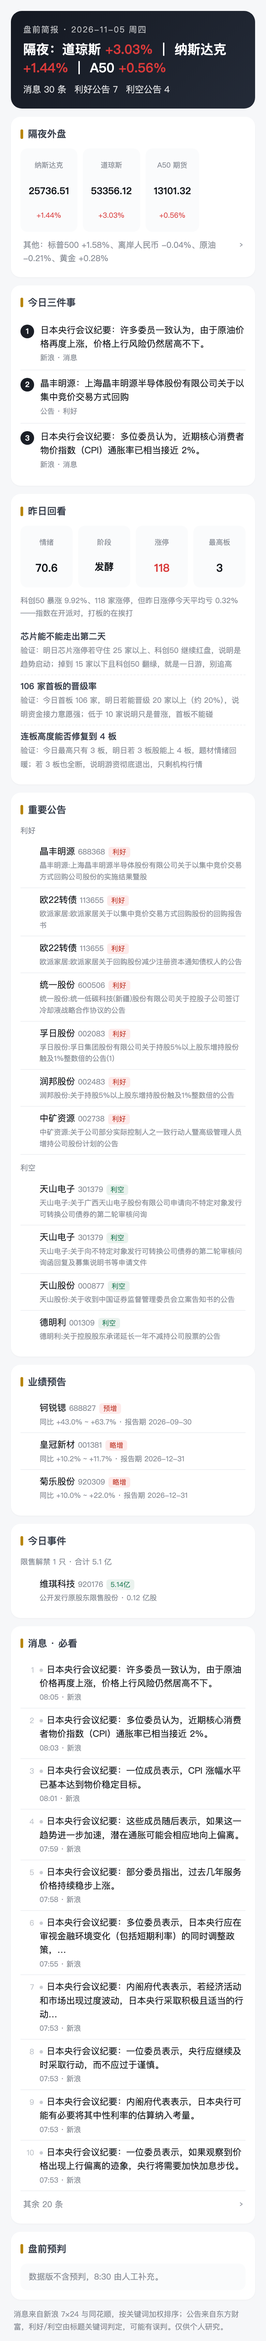
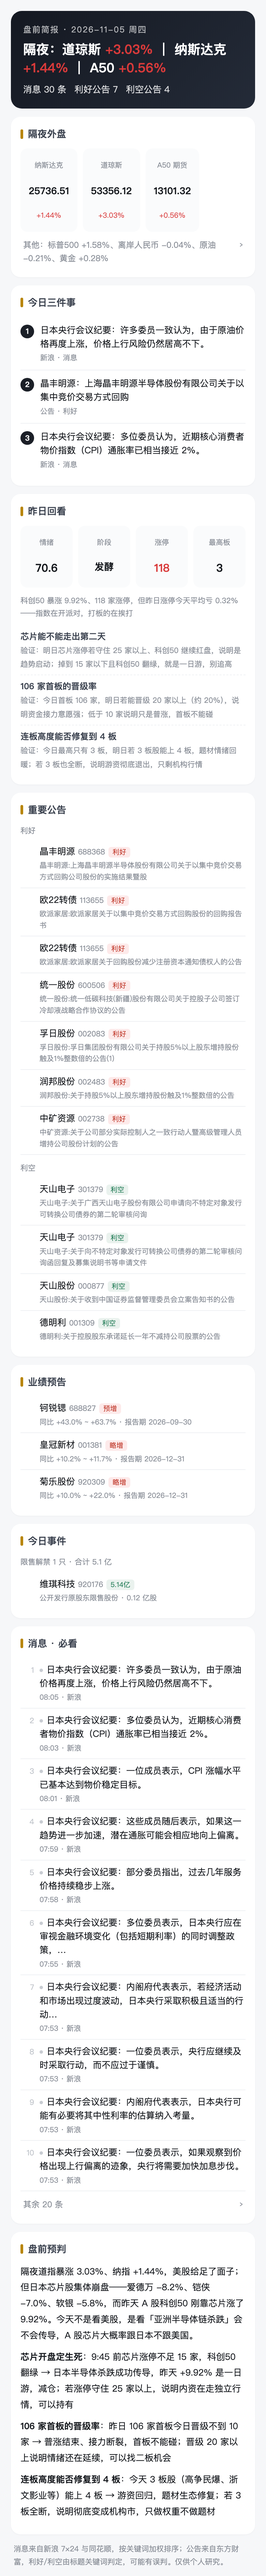
report: 2026-11-04

Changed region(s): [[0.0615, 0.0, 0.9538, 0.9985], [0.7385, 0.6553, 0.7692, 0.6865]]

diff --git a/pre/2026-11-05/2026-11-05-盘前.html b/pre/2026-11-05/2026-11-05-盘前.html
@@ -50,4 +50,4 @@ details.more[open]>summary .arw{transform:rotate(90deg)}
 display:flex;align-items:center;justify-content:center;font-weight:700;margin-top:2px}
 .t3 .t{font-size:13px;line-height:1.55;flex:1}
 .t3 .s{font-size:10.5px;color:#8a8f98;margin-top:2px}
-</style><link rel="manifest" href="/a-share-review/manifest.webmanifest"><meta name="theme-color" content="#1b1f27"><meta name="apple-mobile-web-app-capable" content="yes"><meta name="apple-mobile-web-app-status-bar-style" content="black-translucent"><meta name="apple-mobile-web-app-title" content="A股复盘"><link rel="apple-touch-icon" href="/a-share-review/icon-192.png"></head><body><div class="wrap"><div class="hero"><div class="d">盘前简报 · 2026-11-05 周四</div><h1>隔夜：道琼斯 <b class="up">+3.03%</b> ｜ 纳斯达克 <b class="up">+1.44%</b> ｜ A50 <b class="up">+0.56%</b></h1><div class="sum"><span>消息 30 条</span><span>利好公告 7</span><span>利空公告 4</span></div></div><div class="card"><h2>隔夜外盘</h2><div class="ov"><div><div class="n">纳斯达克</div><div class="v">25736.51</div><div class="p up">+1.44%</div></div><div><div class="n">道琼斯</div><div class="v">53356.12</div><div class="p up">+3.03%</div></div><div><div class="n">A50 期货</div><div class="v">13101.32</div><div class="p up">+0.56%</div></div></div><details class="more"><summary><span>其他：标普500 +1.58%、离岸人民币 -0.04%、原油 -0.21%、黄金 +0.28%</span><span class="arw">›</span></summary><div class="ov" style="margin-top:8px"><div><div class="n">标普500</div><div class="v">7688.62</div><div class="p up">+1.58%</div></div><div><div class="n">离岸人民币</div><div class="v">6.67</div><div class="p down">-0.04%</div></div><div><div class="n">原油</div><div class="v">87.94</div><div class="p down">-0.21%</div></div><div><div class="n">黄金</div><div class="v">4084.52</div><div class="p up">+0.28%</div></div></div></details></div><div class="card"><h2>今日三件事</h2><div class="t3"><div class="n">1</div><div><div class="t">日本央行会议纪要：许多委员一致认为，由于原油价格再度上涨，价格上行风险仍然居高不下。</div><div class="s">新浪 · 消息</div></div></div><div class="t3"><div class="n">2</div><div><div class="t">晶丰明源：上海晶丰明源半导体股份有限公司关于以集中竞价交易方式回购</div><div class="s">公告 · 利好</div></div></div><div class="t3"><div class="n">3</div><div><div class="t">日本央行会议纪要：多位委员认为，近期核心消费者物价指数（CPI）通胀率已相当接近 2%。</div><div class="s">新浪 · 消息</div></div></div></div><div class="card"><h2>昨日回看</h2><div class="kv"><div><div class="n">情绪</div><div class="v">70.6</div></div><div><div class="n">阶段</div><div class="v" style="font-size:14px">发酵</div></div><div><div class="n">涨停</div><div class="v up">118</div></div><div><div class="n">最高板</div><div class="v">3</div></div></div><div class="note" style="margin-bottom:8px">科创50 暴涨 9.92%、118 家涨停，但昨日涨停今天平均亏 0.32%——指数在开派对，打板的在挨打</div><div class="watch"><b>芯片能不能走出第二天</b><br><span class="note">验证：明日芯片涨停若守住 25 家以上、科创50 继续红盘，说明是趋势启动；掉到 15 家以下且科创50 翻绿，就是一日游，别追高</span></div><div class="watch"><b>106 家首板的晋级率</b><br><span class="note">验证：今日首板 106 家，明日若能晋级 20 家以上（约 20%），说明资金接力意愿强；低于 10 家说明只是普涨，首板不能碰</span></div><div class="watch"><b>连板高度能否修复到 4 板</b><br><span class="note">验证：今日最高只有 3 板，明日若 3 板股能上 4 板，题材情绪回暖；若 3 板也全断，说明游资彻底退出，只剩机构行情</span></div></div><div class="card"><h2>重要公告</h2><div class="note" style="margin-bottom:4px">利好</div><div class="item"><div class="no"></div><div class="b"><div class="t">晶丰明源 <span class="mut" style="font-size:11px">688368</span><span class="tag tag-good">利好</span></div><div class="m">晶丰明源:上海晶丰明源半导体股份有限公司关于以集中竞价交易方式回购公司股份的实施结果暨股</div></div></div><div class="item"><div class="no"></div><div class="b"><div class="t">欧22转债 <span class="mut" style="font-size:11px">113655</span><span class="tag tag-good">利好</span></div><div class="m">欧派家居:欧派家居关于以集中竞价交易方式回购股份的回购报告书</div></div></div><div class="item"><div class="no"></div><div class="b"><div class="t">欧22转债 <span class="mut" style="font-size:11px">113655</span><span class="tag tag-good">利好</span></div><div class="m">欧派家居:欧派家居关于回购股份减少注册资本通知债权人的公告</div></div></div><div class="item"><div class="no"></div><div class="b"><div class="t">统一股份 <span class="mut" style="font-size:11px">600506</span><span class="tag tag-good">利好</span></div><div class="m">统一股份:统一低碳科技(新疆)股份有限公司关于控股子公司签订冷却液战略合作协议的公告</div></div></div><div class="item"><div class="no"></div><div class="b"><div class="t">孚日股份 <span class="mut" style="font-size:11px">002083</span><span class="tag tag-good">利好</span></div><div class="m">孚日股份:孚日集团股份有限公司关于持股5%以上股东增持股份触及1%整数倍的公告(1)</div></div></div><div class="item"><div class="no"></div><div class="b"><div class="t">润邦股份 <span class="mut" style="font-size:11px">002483</span><span class="tag tag-good">利好</span></div><div class="m">润邦股份:关于持股5%以上股东增持股份触及1%整数倍的公告</div></div></div><div class="item"><div class="no"></div><div class="b"><div class="t">中矿资源 <span class="mut" style="font-size:11px">002738</span><span class="tag tag-good">利好</span></div><div class="m">中矿资源:关于公司部分实际控制人之一致行动人暨高级管理人员增持公司股份计划的公告</div></div></div><div class="note" style="margin:10px 0 4px">利空</div><div class="item"><div class="no"></div><div class="b"><div class="t">天山电子 <span class="mut" style="font-size:11px">301379</span><span class="tag tag-bad">利空</span></div><div class="m">天山电子:关于广西天山电子股份有限公司申请向不特定对象发行可转换公司债券的第二轮审核问询</div></div></div><div class="item"><div class="no"></div><div class="b"><div class="t">天山电子 <span class="mut" style="font-size:11px">301379</span><span class="tag tag-bad">利空</span></div><div class="m">天山电子:关于向不特定对象发行可转换公司债券的第二轮审核问询函回复及募集说明书等申请文件</div></div></div><div class="item"><div class="no"></div><div class="b"><div class="t">天山股份 <span class="mut" style="font-size:11px">000877</span><span class="tag tag-bad">利空</span></div><div class="m">天山股份:关于收到中国证券监督管理委员会立案告知书的公告</div></div></div><div class="item"><div class="no"></div><div class="b"><div class="t">德明利 <span class="mut" style="font-size:11px">001309</span><span class="tag tag-bad">利空</span></div><div class="m">德明利:关于控股股东承诺延长一年不减持公司股票的公告</div></div></div></div><div class="card"><h2>业绩预告</h2><div class="item"><div class="no"></div><div class="b"><div class="t">钶锐锶 <span class="mut" style="font-size:11px">688827</span><span class="tag tag-good">预增</span></div><div class="m">同比 +43.0% ~ +63.7% · 报告期 2026-09-30</div></div></div><div class="item"><div class="no"></div><div class="b"><div class="t">皇冠新材 <span class="mut" style="font-size:11px">001381</span><span class="tag tag-good">略增</span></div><div class="m">同比 +10.2% ~ +11.7% · 报告期 2026-12-31</div></div></div><div class="item"><div class="no"></div><div class="b"><div class="t">菊乐股份 <span class="mut" style="font-size:11px">920309</span><span class="tag tag-good">略增</span></div><div class="m">同比 +10.0% ~ +22.0% · 报告期 2026-12-31</div></div></div></div><div class="card"><h2>今日事件</h2><div class="note" style="margin-bottom:6px">限售解禁 1 只 · 合计 5.1 亿</div><div class="item"><div class="no"></div><div class="b"><div class="t">维琪科技 <span class="mut" style="font-size:11px">920176</span><span class="tag tag-bad">5.14亿</span></div><div class="m">公开发行原股东限售股份 · 0.12 亿股</div></div></div></div><div class="card"><h2>消息 · 必看</h2><div class="item"><div class="no">1</div><div class="b"><div class="t"><span class="dot n"></span>日本央行会议纪要：许多委员一致认为，由于原油价格再度上涨，价格上行风险仍然居高不下。</div><div class="m">08:05 · 新浪</div></div></div><div class="item"><div class="no">2</div><div class="b"><div class="t"><span class="dot n"></span>日本央行会议纪要：多位委员认为，近期核心消费者物价指数（CPI）通胀率已相当接近 2%。</div><div class="m">08:03 · 新浪</div></div></div><div class="item"><div class="no">3</div><div class="b"><div class="t"><span class="dot n"></span>日本央行会议纪要：一位成员表示，CPI 涨幅水平已基本达到物价稳定目标。</div><div class="m">08:01 · 新浪</div></div></div><div class="item"><div class="no">4</div><div class="b"><div class="t"><span class="dot n"></span>日本央行会议纪要：这些成员随后表示，如果这一趋势进一步加速，潜在通胀可能会相应地向上偏离。</div><div class="m">07:59 · 新浪</div></div></div><div class="item"><div class="no">5</div><div class="b"><div class="t"><span class="dot n"></span>日本央行会议纪要：部分委员指出，过去几年服务价格持续稳步上涨。</div><div class="m">07:58 · 新浪</div></div></div><div class="item"><div class="no">6</div><div class="b"><div class="t"><span class="dot n"></span>日本央行会议纪要：多位委员表示，日本央行应在审视金融环境变化（包括短期利率）的同时调整政策，…</div><div class="m">07:55 · 新浪</div></div></div><div class="item"><div class="no">7</div><div class="b"><div class="t"><span class="dot n"></span>日本央行会议纪要：内阁府代表表示，若经济活动和市场出现过度波动，日本央行采取积极且适当的行动…</div><div class="m">07:53 · 新浪</div></div></div><div class="item"><div class="no">8</div><div class="b"><div class="t"><span class="dot n"></span>日本央行会议纪要：一位委员表示，央行应继续及时采取行动，而不应过于谨慎。</div><div class="m">07:53 · 新浪</div></div></div><div class="item"><div class="no">9</div><div class="b"><div class="t"><span class="dot n"></span>日本央行会议纪要：内阁府代表表示，日本央行可能有必要将其中性利率的估算纳入考量。</div><div class="m">07:53 · 新浪</div></div></div><div class="item"><div class="no">10</div><div class="b"><div class="t"><span class="dot n"></span>日本央行会议纪要：一位委员表示，如果观察到价格出现上行偏离的迹象，央行将需要加快加息步伐。</div><div class="m">07:53 · 新浪</div></div></div><details class="more"><summary><span>其余 20 条</span><span class="arw">›</span></summary><div class="item"><div class="no">11</div><div class="b"><div class="t"><span class="dot n"></span>日本央行会议纪要：内阁府代表表示，期待日本央行就本次会议的决策履行问责义务，并仔细审视过去政…</div><div class="m">07:52 · 新浪</div></div></div><div class="item"><div class="no">12</div><div class="b"><div class="t"><span class="dot n"></span>日本央行会议纪要：一位委员表示，重要的是向市场展示日本央行通过灵活应对海外经济环境和价格走势…</div><div class="m">07:52 · 新浪</div></div></div><div class="item"><div class="no">13</div><div class="b"><div class="t"><span class="dot n"></span>日本央行会议纪要：一位委员表示，日本央行宜相对较快地将政策利率接近大致目标，并确保有空间向任…</div><div class="m">07:51 · 新浪</div></div></div><div class="item"><div class="no">14</div><div class="b"><div class="t"><span class="dot n"></span>日本央行9月会议纪要：委员们一致认为，日本央行继续提高政策利率并调整货币宽松程度是合适的。</div><div class="m">07:51 · 新浪</div></div></div><div class="item"><div class="no">15</div><div class="b"><div class="t"><span class="dot n"></span>西班牙请求欧盟铁路局协助调查高铁事故</div><div class="m">01:13 · 同花顺</div></div></div><div class="item"><div class="no">16</div><div class="b"><div class="t"><span class="dot g"></span>【希音将向欧洲业务投资5亿欧元】据报道，快时尚跨境电商希音将向欧洲业务投资5亿欧元（5.63…</div><div class="m">07:59 · 新浪</div></div></div><div class="item"><div class="no">17</div><div class="b"><div class="t"><span class="dot b2"></span>【白酒行业前三季度持续去库存 市场人士：基本面反转尚待旺季验证】近日，19家主流白酒上市公司…</div><div class="m">07:59 · 新浪</div></div></div><div class="item"><div class="no">18</div><div class="b"><div class="t"><span class="dot b2"></span>【玻璃行业持续磨底 盈利分化 企业纷纷谋转型】“金九银十”过后，玻璃行业尚未走出低位磨底阶段…</div><div class="m">07:49 · 新浪</div></div></div><div class="item"><div class="no">19</div><div class="b"><div class="t"><span class="dot g"></span>欧佩克：原油运输及保险成本飙升 加剧全球通胀压力</div><div class="m">00:49 · 同花顺</div></div></div><div class="item"><div class="no">20</div><div class="b"><div class="t"><span class="dot n"></span>美股收评：美股三大指数集体收涨</div><div class="m">05:00 · 同花顺</div></div></div><div class="item"><div class="no">21</div><div class="b"><div class="t"><span class="dot n"></span>苹果计划进一步下调员工的人工智能使用限额，部分工程师的每日AI使用额度已从300美元降至20…</div><div class="m">03:47 · 同花顺</div></div></div><div class="item"><div class="no">22</div><div class="b"><div class="t"><span class="dot g"></span>【品质化、场景化消费升温 多个新兴赛道电商订单增长】中国物流与采购联合会今天发布10月份中国…</div><div class="m">08:18 · 新浪</div></div></div><div class="item"><div class="no">23</div><div class="b"><div class="t"><span class="dot g"></span>【花旗银行一名员工在佛罗里达州办公室枪击案中遇害】花旗集团首席执行官弗雷泽 (Jane Fr…</div><div class="m">08:14 · 新浪</div></div></div><div class="item"><div class="no">24</div><div class="b"><div class="t"><span class="dot g"></span>【美国健身平台FitLab申请破产保护，将破产归咎于失去耐克合作】当地时间11月4日，美国健…</div><div class="m">08:09 · 新浪</div></div></div><div class="item"><div class="no">25</div><div class="b"><div class="t"><span class="dot b2"></span>【中国联合资信评估将珠海华发集团列入负面观察名单】中国联合资信评估公告称，将珠海华发集团及其…</div><div class="m">08:07 · 新浪</div></div></div><div class="item"><div class="no">26</div><div class="b"><div class="t"><span class="dot g"></span>【第29届中国—加拿大经贸联委会举行】11月3日，第29届中国—加拿大经贸联委会在京举行。会…</div><div class="m">07:56 · 新浪</div></div></div><div class="item"><div class="no">27</div><div class="b"><div class="t"><span class="dot g"></span>KAKAO CORP.：将回购价值 1500 亿韩元的自有股份。</div><div class="m">07:55 · 新浪</div></div></div><div class="item"><div class="no">28</div><div class="b"><div class="t"><span class="dot g"></span>德防长：驻立陶宛装甲旅明年底前形成全面作战能力</div><div class="m">06:59 · 同花顺</div></div></div><div class="item"><div class="no">29</div><div class="b"><div class="t"><span class="dot n"></span>日本芯片相关股票大幅下跌，爱德万测试股价下跌8.2%，铠侠下跌7.0%，软银集团下跌5.8%…</div><div class="m">08:20 · 新浪</div></div></div><div class="item"><div class="no">30</div><div class="b"><div class="t"><span class="dot n"></span>【华泰证券：2027年建议把握券商板块战略配置机会】华泰证券研报称，2026年以来受资金配置…</div><div class="m">08:17 · 新浪</div></div></div></details></div><div class="card"><h2>盘前预判</h2><div class="empty">数据版不含预判，8:30 由人工补充。</div></div><div class="note" style="padding:0 4px">消息来自新浪 7×24 与同花顺，按关键词加权排序；公告来自东方财富，利好/利空由标题关键词判定，可能有误判。仅供个人研究。</div></div></body></html>
+</style><link rel="manifest" href="/a-share-review/manifest.webmanifest"><meta name="theme-color" content="#1b1f27"><meta name="apple-mobile-web-app-capable" content="yes"><meta name="apple-mobile-web-app-status-bar-style" content="black-translucent"><meta name="apple-mobile-web-app-title" content="A股复盘"><link rel="apple-touch-icon" href="/a-share-review/icon-192.png"></head><body><div class="wrap"><div class="hero"><div class="d">盘前简报 · 2026-11-05 周四</div><h1>隔夜：道琼斯 <b class="up">+3.03%</b> ｜ 纳斯达克 <b class="up">+1.44%</b> ｜ A50 <b class="up">+0.56%</b></h1><div class="sum"><span>消息 30 条</span><span>利好公告 7</span><span>利空公告 4</span></div></div><div class="card"><h2>隔夜外盘</h2><div class="ov"><div><div class="n">纳斯达克</div><div class="v">25736.51</div><div class="p up">+1.44%</div></div><div><div class="n">道琼斯</div><div class="v">53356.12</div><div class="p up">+3.03%</div></div><div><div class="n">A50 期货</div><div class="v">13101.32</div><div class="p up">+0.56%</div></div></div><details class="more"><summary><span>其他：标普500 +1.58%、离岸人民币 -0.04%、原油 -0.21%、黄金 +0.28%</span><span class="arw">›</span></summary><div class="ov" style="margin-top:8px"><div><div class="n">标普500</div><div class="v">7688.62</div><div class="p up">+1.58%</div></div><div><div class="n">离岸人民币</div><div class="v">6.67</div><div class="p down">-0.04%</div></div><div><div class="n">原油</div><div class="v">87.94</div><div class="p down">-0.21%</div></div><div><div class="n">黄金</div><div class="v">4084.52</div><div class="p up">+0.28%</div></div></div></details></div><div class="card"><h2>今日三件事</h2><div class="t3"><div class="n">1</div><div><div class="t">日本央行会议纪要：许多委员一致认为，由于原油价格再度上涨，价格上行风险仍然居高不下。</div><div class="s">新浪 · 消息</div></div></div><div class="t3"><div class="n">2</div><div><div class="t">晶丰明源：上海晶丰明源半导体股份有限公司关于以集中竞价交易方式回购</div><div class="s">公告 · 利好</div></div></div><div class="t3"><div class="n">3</div><div><div class="t">日本央行会议纪要：多位委员认为，近期核心消费者物价指数（CPI）通胀率已相当接近 2%。</div><div class="s">新浪 · 消息</div></div></div></div><div class="card"><h2>昨日回看</h2><div class="kv"><div><div class="n">情绪</div><div class="v">70.6</div></div><div><div class="n">阶段</div><div class="v" style="font-size:14px">发酵</div></div><div><div class="n">涨停</div><div class="v up">118</div></div><div><div class="n">最高板</div><div class="v">3</div></div></div><div class="note" style="margin-bottom:8px">科创50 暴涨 9.92%、118 家涨停，但昨日涨停今天平均亏 0.32%——指数在开派对，打板的在挨打</div><div class="watch"><b>芯片能不能走出第二天</b><br><span class="note">验证：明日芯片涨停若守住 25 家以上、科创50 继续红盘，说明是趋势启动；掉到 15 家以下且科创50 翻绿，就是一日游，别追高</span></div><div class="watch"><b>106 家首板的晋级率</b><br><span class="note">验证：今日首板 106 家，明日若能晋级 20 家以上（约 20%），说明资金接力意愿强；低于 10 家说明只是普涨，首板不能碰</span></div><div class="watch"><b>连板高度能否修复到 4 板</b><br><span class="note">验证：今日最高只有 3 板，明日若 3 板股能上 4 板，题材情绪回暖；若 3 板也全断，说明游资彻底退出，只剩机构行情</span></div></div><div class="card"><h2>重要公告</h2><div class="note" style="margin-bottom:4px">利好</div><div class="item"><div class="no"></div><div class="b"><div class="t">晶丰明源 <span class="mut" style="font-size:11px">688368</span><span class="tag tag-good">利好</span></div><div class="m">晶丰明源:上海晶丰明源半导体股份有限公司关于以集中竞价交易方式回购公司股份的实施结果暨股</div></div></div><div class="item"><div class="no"></div><div class="b"><div class="t">欧22转债 <span class="mut" style="font-size:11px">113655</span><span class="tag tag-good">利好</span></div><div class="m">欧派家居:欧派家居关于以集中竞价交易方式回购股份的回购报告书</div></div></div><div class="item"><div class="no"></div><div class="b"><div class="t">欧22转债 <span class="mut" style="font-size:11px">113655</span><span class="tag tag-good">利好</span></div><div class="m">欧派家居:欧派家居关于回购股份减少注册资本通知债权人的公告</div></div></div><div class="item"><div class="no"></div><div class="b"><div class="t">统一股份 <span class="mut" style="font-size:11px">600506</span><span class="tag tag-good">利好</span></div><div class="m">统一股份:统一低碳科技(新疆)股份有限公司关于控股子公司签订冷却液战略合作协议的公告</div></div></div><div class="item"><div class="no"></div><div class="b"><div class="t">孚日股份 <span class="mut" style="font-size:11px">002083</span><span class="tag tag-good">利好</span></div><div class="m">孚日股份:孚日集团股份有限公司关于持股5%以上股东增持股份触及1%整数倍的公告(1)</div></div></div><div class="item"><div class="no"></div><div class="b"><div class="t">润邦股份 <span class="mut" style="font-size:11px">002483</span><span class="tag tag-good">利好</span></div><div class="m">润邦股份:关于持股5%以上股东增持股份触及1%整数倍的公告</div></div></div><div class="item"><div class="no"></div><div class="b"><div class="t">中矿资源 <span class="mut" style="font-size:11px">002738</span><span class="tag tag-good">利好</span></div><div class="m">中矿资源:关于公司部分实际控制人之一致行动人暨高级管理人员增持公司股份计划的公告</div></div></div><div class="note" style="margin:10px 0 4px">利空</div><div class="item"><div class="no"></div><div class="b"><div class="t">天山电子 <span class="mut" style="font-size:11px">301379</span><span class="tag tag-bad">利空</span></div><div class="m">天山电子:关于广西天山电子股份有限公司申请向不特定对象发行可转换公司债券的第二轮审核问询</div></div></div><div class="item"><div class="no"></div><div class="b"><div class="t">天山电子 <span class="mut" style="font-size:11px">301379</span><span class="tag tag-bad">利空</span></div><div class="m">天山电子:关于向不特定对象发行可转换公司债券的第二轮审核问询函回复及募集说明书等申请文件</div></div></div><div class="item"><div class="no"></div><div class="b"><div class="t">天山股份 <span class="mut" style="font-size:11px">000877</span><span class="tag tag-bad">利空</span></div><div class="m">天山股份:关于收到中国证券监督管理委员会立案告知书的公告</div></div></div><div class="item"><div class="no"></div><div class="b"><div class="t">德明利 <span class="mut" style="font-size:11px">001309</span><span class="tag tag-bad">利空</span></div><div class="m">德明利:关于控股股东承诺延长一年不减持公司股票的公告</div></div></div></div><div class="card"><h2>业绩预告</h2><div class="item"><div class="no"></div><div class="b"><div class="t">钶锐锶 <span class="mut" style="font-size:11px">688827</span><span class="tag tag-good">预增</span></div><div class="m">同比 +43.0% ~ +63.7% · 报告期 2026-09-30</div></div></div><div class="item"><div class="no"></div><div class="b"><div class="t">皇冠新材 <span class="mut" style="font-size:11px">001381</span><span class="tag tag-good">略增</span></div><div class="m">同比 +10.2% ~ +11.7% · 报告期 2026-12-31</div></div></div><div class="item"><div class="no"></div><div class="b"><div class="t">菊乐股份 <span class="mut" style="font-size:11px">920309</span><span class="tag tag-good">略增</span></div><div class="m">同比 +10.0% ~ +22.0% · 报告期 2026-12-31</div></div></div></div><div class="card"><h2>今日事件</h2><div class="note" style="margin-bottom:6px">限售解禁 1 只 · 合计 5.1 亿</div><div class="item"><div class="no"></div><div class="b"><div class="t">维琪科技 <span class="mut" style="font-size:11px">920176</span><span class="tag tag-bad">5.14亿</span></div><div class="m">公开发行原股东限售股份 · 0.12 亿股</div></div></div></div><div class="card"><h2>消息 · 必看</h2><div class="item"><div class="no">1</div><div class="b"><div class="t"><span class="dot n"></span>日本央行会议纪要：许多委员一致认为，由于原油价格再度上涨，价格上行风险仍然居高不下。</div><div class="m">08:05 · 新浪</div></div></div><div class="item"><div class="no">2</div><div class="b"><div class="t"><span class="dot n"></span>日本央行会议纪要：多位委员认为，近期核心消费者物价指数（CPI）通胀率已相当接近 2%。</div><div class="m">08:03 · 新浪</div></div></div><div class="item"><div class="no">3</div><div class="b"><div class="t"><span class="dot n"></span>日本央行会议纪要：一位成员表示，CPI 涨幅水平已基本达到物价稳定目标。</div><div class="m">08:01 · 新浪</div></div></div><div class="item"><div class="no">4</div><div class="b"><div class="t"><span class="dot n"></span>日本央行会议纪要：这些成员随后表示，如果这一趋势进一步加速，潜在通胀可能会相应地向上偏离。</div><div class="m">07:59 · 新浪</div></div></div><div class="item"><div class="no">5</div><div class="b"><div class="t"><span class="dot n"></span>日本央行会议纪要：部分委员指出，过去几年服务价格持续稳步上涨。</div><div class="m">07:58 · 新浪</div></div></div><div class="item"><div class="no">6</div><div class="b"><div class="t"><span class="dot n"></span>日本央行会议纪要：多位委员表示，日本央行应在审视金融环境变化（包括短期利率）的同时调整政策，…</div><div class="m">07:55 · 新浪</div></div></div><div class="item"><div class="no">7</div><div class="b"><div class="t"><span class="dot n"></span>日本央行会议纪要：内阁府代表表示，若经济活动和市场出现过度波动，日本央行采取积极且适当的行动…</div><div class="m">07:53 · 新浪</div></div></div><div class="item"><div class="no">8</div><div class="b"><div class="t"><span class="dot n"></span>日本央行会议纪要：一位委员表示，央行应继续及时采取行动，而不应过于谨慎。</div><div class="m">07:53 · 新浪</div></div></div><div class="item"><div class="no">9</div><div class="b"><div class="t"><span class="dot n"></span>日本央行会议纪要：内阁府代表表示，日本央行可能有必要将其中性利率的估算纳入考量。</div><div class="m">07:53 · 新浪</div></div></div><div class="item"><div class="no">10</div><div class="b"><div class="t"><span class="dot n"></span>日本央行会议纪要：一位委员表示，如果观察到价格出现上行偏离的迹象，央行将需要加快加息步伐。</div><div class="m">07:53 · 新浪</div></div></div><details class="more"><summary><span>其余 20 条</span><span class="arw">›</span></summary><div class="item"><div class="no">11</div><div class="b"><div class="t"><span class="dot n"></span>日本央行会议纪要：内阁府代表表示，期待日本央行就本次会议的决策履行问责义务，并仔细审视过去政…</div><div class="m">07:52 · 新浪</div></div></div><div class="item"><div class="no">12</div><div class="b"><div class="t"><span class="dot n"></span>日本央行会议纪要：一位委员表示，重要的是向市场展示日本央行通过灵活应对海外经济环境和价格走势…</div><div class="m">07:52 · 新浪</div></div></div><div class="item"><div class="no">13</div><div class="b"><div class="t"><span class="dot n"></span>日本央行会议纪要：一位委员表示，日本央行宜相对较快地将政策利率接近大致目标，并确保有空间向任…</div><div class="m">07:51 · 新浪</div></div></div><div class="item"><div class="no">14</div><div class="b"><div class="t"><span class="dot n"></span>日本央行9月会议纪要：委员们一致认为，日本央行继续提高政策利率并调整货币宽松程度是合适的。</div><div class="m">07:51 · 新浪</div></div></div><div class="item"><div class="no">15</div><div class="b"><div class="t"><span class="dot n"></span>西班牙请求欧盟铁路局协助调查高铁事故</div><div class="m">01:13 · 同花顺</div></div></div><div class="item"><div class="no">16</div><div class="b"><div class="t"><span class="dot g"></span>【希音将向欧洲业务投资5亿欧元】据报道，快时尚跨境电商希音将向欧洲业务投资5亿欧元（5.63…</div><div class="m">07:59 · 新浪</div></div></div><div class="item"><div class="no">17</div><div class="b"><div class="t"><span class="dot b2"></span>【白酒行业前三季度持续去库存 市场人士：基本面反转尚待旺季验证】近日，19家主流白酒上市公司…</div><div class="m">07:59 · 新浪</div></div></div><div class="item"><div class="no">18</div><div class="b"><div class="t"><span class="dot b2"></span>【玻璃行业持续磨底 盈利分化 企业纷纷谋转型】“金九银十”过后，玻璃行业尚未走出低位磨底阶段…</div><div class="m">07:49 · 新浪</div></div></div><div class="item"><div class="no">19</div><div class="b"><div class="t"><span class="dot g"></span>欧佩克：原油运输及保险成本飙升 加剧全球通胀压力</div><div class="m">00:49 · 同花顺</div></div></div><div class="item"><div class="no">20</div><div class="b"><div class="t"><span class="dot n"></span>美股收评：美股三大指数集体收涨</div><div class="m">05:00 · 同花顺</div></div></div><div class="item"><div class="no">21</div><div class="b"><div class="t"><span class="dot n"></span>苹果计划进一步下调员工的人工智能使用限额，部分工程师的每日AI使用额度已从300美元降至20…</div><div class="m">03:47 · 同花顺</div></div></div><div class="item"><div class="no">22</div><div class="b"><div class="t"><span class="dot g"></span>【品质化、场景化消费升温 多个新兴赛道电商订单增长】中国物流与采购联合会今天发布10月份中国…</div><div class="m">08:18 · 新浪</div></div></div><div class="item"><div class="no">23</div><div class="b"><div class="t"><span class="dot g"></span>【花旗银行一名员工在佛罗里达州办公室枪击案中遇害】花旗集团首席执行官弗雷泽 (Jane Fr…</div><div class="m">08:14 · 新浪</div></div></div><div class="item"><div class="no">24</div><div class="b"><div class="t"><span class="dot g"></span>【美国健身平台FitLab申请破产保护，将破产归咎于失去耐克合作】当地时间11月4日，美国健…</div><div class="m">08:09 · 新浪</div></div></div><div class="item"><div class="no">25</div><div class="b"><div class="t"><span class="dot b2"></span>【中国联合资信评估将珠海华发集团列入负面观察名单】中国联合资信评估公告称，将珠海华发集团及其…</div><div class="m">08:07 · 新浪</div></div></div><div class="item"><div class="no">26</div><div class="b"><div class="t"><span class="dot g"></span>【第29届中国—加拿大经贸联委会举行】11月3日，第29届中国—加拿大经贸联委会在京举行。会…</div><div class="m">07:56 · 新浪</div></div></div><div class="item"><div class="no">27</div><div class="b"><div class="t"><span class="dot g"></span>KAKAO CORP.：将回购价值 1500 亿韩元的自有股份。</div><div class="m">07:55 · 新浪</div></div></div><div class="item"><div class="no">28</div><div class="b"><div class="t"><span class="dot g"></span>德防长：驻立陶宛装甲旅明年底前形成全面作战能力</div><div class="m">06:59 · 同花顺</div></div></div><div class="item"><div class="no">29</div><div class="b"><div class="t"><span class="dot n"></span>日本芯片相关股票大幅下跌，爱德万测试股价下跌8.2%，铠侠下跌7.0%，软银集团下跌5.8%…</div><div class="m">08:20 · 新浪</div></div></div><div class="item"><div class="no">30</div><div class="b"><div class="t"><span class="dot n"></span>【华泰证券：2027年建议把握券商板块战略配置机会】华泰证券研报称，2026年以来受资金配置…</div><div class="m">08:17 · 新浪</div></div></div></details></div><div class="card"><h2>盘前预判</h2><div class="jd"><p>隔夜道指暴涨 3.03%、纳指 +1.44%，美股给足了面子；但日本芯片股集体崩盘——爱德万 -8.2%、铠侠 -7.0%、软银 -5.8%，而昨天 A 股科创50 刚靠芯片涨了 9.92%。今天不是看美股，是看「亚洲半导体链杀跌」会不会传导，A 股芯片大概率跟日本不跟美国。</p><p><b>芯片开盘定生死</b>：9:45 前芯片涨停不足 15 家，科创50 翻绿 → 日本半导体杀跌成功传导，昨天 +9.92% 是一日游，减仓；若涨停守住 25 家以上，说明内资在走独立行情，可以持有</p><p><b>106 家首板的晋级率</b>：昨日 106 家首板今日晋级不到 10 家 → 普涨结束、接力断裂，首板不能碰；晋级 20 家以上说明情绪还在延续，可以找二板机会</p><p><b>连板高度能否修复到 4 板</b>：今天 3 板股（高争民爆、浙文影业等）能上 4 板 → 游资回归，题材生态修复；若 3 板全断，说明彻底变成机构市，只做权重不做题材</p></div></div><div class="note" style="padding:0 4px">消息来自新浪 7×24 与同花顺，按关键词加权排序；公告来自东方财富，利好/利空由标题关键词判定，可能有误判。仅供个人研究。</div></div></body></html>

diff --git a/pre/index.html b/pre/index.html
@@ -47,6 +47,6 @@ padding-bottom:env(safe-area-inset-bottom)}
 .tabbar a.on::after{content:"";display:block;width:18px;height:2.5px;border-radius:2px;background:var(--gold);margin:5px auto 0}
 </style><link rel="manifest" href="/a-share-review/manifest.webmanifest"><meta name="theme-color" content="#1b1f27"><meta name="apple-mobile-web-app-capable" content="yes"><meta name="apple-mobile-web-app-status-bar-style" content="black-translucent"><meta name="apple-mobile-web-app-title" content="A股复盘"><link rel="apple-touch-icon" href="/a-share-review/icon-192.png"></head><body><div class="wrap">
 <div class="head"><h1>盘前简报</h1><div class="sub">共 4 篇 · 交易日 08:20</div></div>
-<a class="hero" href="2026-11-05/2026-11-05-盘前.html?v=1793838007"><div class="ht">最新盘前 · 2026-11-05</div><div class="hrow"><div><div class="hn">纳指</div><div class="hv up">+1.44%</div></div><div><div class="hn">道指</div><div class="hv up">+3.03%</div></div><div><div class="hn">A50</div><div class="hv up">+0.56%</div></div><div><div class="hn">消息</div><div class="hv">30</div></div></div><div class="hb">点开看完整盘前简报 →</div></a>
-<details class="month" open><summary><span><b>2026-11</b>　4 篇</span><span class="arw">›</span></summary><div class="list"><a class="row" href="2026-11-05/2026-11-05-盘前.html?v=1793838007"><div class="rl"><div class="rd">11-05</div><div class="rw">周四</div></div><div class="rm"><span class="k up">纳指 +1.44%</span><span class="k2">30 条消息</span></div></a><a class="row" href="2026-11-04/2026-11-04-盘前.html?v=1793752215"><div class="rl"><div class="rd">11-04</div><div class="rw">周三</div></div><div class="rm"><span class="k up">纳指 +0.83%</span><span class="k2">30 条消息</span><span class="tag2">预判</span></div></a><a class="row" href="2026-11-03/2026-11-03-盘前.html?v=1793685654"><div class="rl"><div class="rd">11-03</div><div class="rw">周二</div></div><div class="rm"><span class="k down">纳指 -1.07%</span><span class="k2">30 条消息</span><span class="tag2">预判</span></div></a><a class="row" href="2026-11-02/2026-11-02-盘前.html?v=1793613369"><div class="rl"><div class="rd">11-02</div><div class="rw">周一</div></div><div class="rm"><span class="k down">纳指 -2.86%</span><span class="k2">30 条消息</span></div></a></div></details>
+<a class="hero" href="2026-11-05/2026-11-05-盘前.html?v=1793838615"><div class="ht">最新盘前 · 2026-11-05</div><div class="hrow"><div><div class="hn">纳指</div><div class="hv up">+1.44%</div></div><div><div class="hn">道指</div><div class="hv up">+3.03%</div></div><div><div class="hn">A50</div><div class="hv up">+0.56%</div></div><div><div class="hn">消息</div><div class="hv">30</div></div></div><div class="hj">隔夜道指暴涨 3.03%、纳指 +1.44%，美股给足了面子；但日本芯片股集体崩盘——爱德万 -8.2%、铠侠 -7.0</div><div class="hb">点开看完整盘前简报 →</div></a>
+<details class="month" open><summary><span><b>2026-11</b>　4 篇</span><span class="arw">›</span></summary><div class="list"><a class="row" href="2026-11-05/2026-11-05-盘前.html?v=1793838615"><div class="rl"><div class="rd">11-05</div><div class="rw">周四</div></div><div class="rm"><span class="k up">纳指 +1.44%</span><span class="k2">30 条消息</span><span class="tag2">预判</span></div></a><a class="row" href="2026-11-04/2026-11-04-盘前.html?v=1793752215"><div class="rl"><div class="rd">11-04</div><div class="rw">周三</div></div><div class="rm"><span class="k up">纳指 +0.83%</span><span class="k2">30 条消息</span><span class="tag2">预判</span></div></a><a class="row" href="2026-11-03/2026-11-03-盘前.html?v=1793685654"><div class="rl"><div class="rd">11-03</div><div class="rw">周二</div></div><div class="rm"><span class="k down">纳指 -1.07%</span><span class="k2">30 条消息</span><span class="tag2">预判</span></div></a><a class="row" href="2026-11-02/2026-11-02-盘前.html?v=1793613369"><div class="rl"><div class="rd">11-02</div><div class="rw">周一</div></div><div class="rm"><span class="k down">纳指 -2.86%</span><span class="k2">30 条消息</span></div></a></div></details>
 </div><div class="tabbar"><a href="../index.html">每日复盘</a><a href="index.html" class="on">盘前简报</a><a href="../earn/index.html">业绩追踪</a></div></body></html>

diff --git a/index.html b/index.html
@@ -132,7 +132,7 @@ padding-bottom:env(safe-area-inset-bottom)}
   </div>
 </a></div></details>
 <div class="foot">数据与判断仅供个人研究，不构成投资建议<br>
-生成于 2026-11-05 08:20</div>
+生成于 2026-11-05 08:30</div>
 <div class="tabbar"><a href="index.html" class="on">每日复盘</a><a href="pre/index.html">盘前简报</a><a href="earn/index.html">业绩追踪</a></div>
 </div>
 <script>

diff --git a/pre/2026-11-05/2026-11-05-盘前.md b/pre/2026-11-05/2026-11-05-盘前.md
@@ -87,4 +87,8 @@
 
 ## 盘前预判
 
-> 8:30 由人工补充（数据版不含预判）。
+隔夜道指暴涨 3.03%、纳指 +1.44%，美股给足了面子；但日本芯片股集体崩盘——爱德万 -8.2%、铠侠 -7.0%、软银 -5.8%，而昨天 A 股科创50 刚靠芯片涨了 9.92%。今天不是看美股，是看「亚洲半导体链杀跌」会不会传导，A 股芯片大概率跟日本不跟美国。
+
+- **芯片开盘定生死**：9:45 前芯片涨停不足 15 家，科创50 翻绿 → 日本半导体杀跌成功传导，昨天 +9.92% 是一日游，减仓；若涨停守住 25 家以上，说明内资在走独立行情，可以持有
+- **106 家首板的晋级率**：昨日 106 家首板今日晋级不到 10 家 → 普涨结束、接力断裂，首板不能碰；晋级 20 家以上说明情绪还在延续，可以找二板机会
+- **连板高度能否修复到 4 板**：今天 3 板股（高争民爆、浙文影业等）能上 4 板 → 游资回归，题材生态修复；若 3 板全断，说明彻底变成机构市，只做权重不做题材
